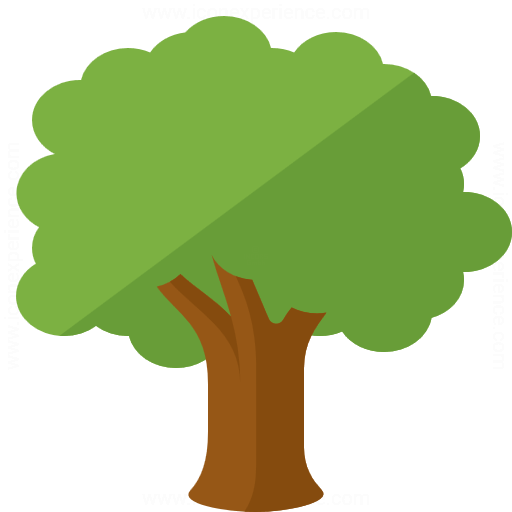
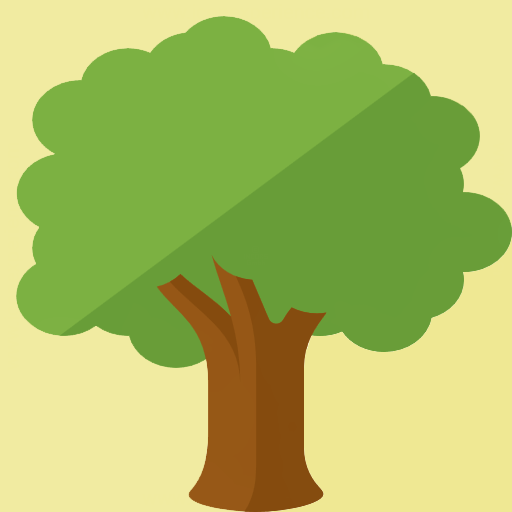
Added visual changes and menu

diff --git a/Focus.py b/Focus.py
@@ -1,0 +1,191 @@
+from PyQt5 import QtCore, QtGui, QtWidgets
+from New_tree import *
+import sys
+
+menu_file_style = """
+QMenuBar::item {
+    spacing: 3px;           
+    padding: 2px 10px;
+    background-color: rgb(180,213,78);
+    color: black;  
+    border-radius: 5px;
+}
+"""
+
+class MainWindow(QtWidgets.QMainWindow):
+
+    def __init__(self):
+        super(MainWindow, self).__init__()
+        self.setupUi()
+
+    def setupUi(self):
+
+        self.setup_window()
+
+        self.font = self._set_font()
+
+        self.create_main_menu()
+        self.create_menubar()
+
+        self.tree = Tree(self) #TODO: File menubar doesnt work, fix it
+
+        self.connect_widgets()
+
+    def connect_widgets(self):
+
+        QtCore.QMetaObject.connectSlotsByName(self)
+
+    def exit_app(self):
+        self.close()
+
+    def forest(self):
+        print('Forest')
+
+    def new_tree(self):
+        print('New tree')
+        self.toogle_main_menu()
+
+        self.label = QtWidgets.QLabel(self.central_widget)
+        self.label.show()
+        self.label.setGeometry(QtCore.QRect(0, 0, self.size().width(), self.size().height()))
+        self.label.setAlignment(QtCore.Qt.AlignCenter)
+        self.label.setPixmap(QtGui.QPixmap("imgs/stage_6.PNG"))
+        self.label.setObjectName("label")
+        # self.tree.initialize()
+
+        self.connect_widgets()
+
+    def _set_font(self):
+        font = QtGui.QFont()
+        font.setFamily("Arial")
+        font.setPointSize(14)
+        font.setBold(True)
+        font.setWeight(75)
+        return font
+
+    def _set_button_style(self):
+
+        self.button_new_tree.setStyleSheet(
+            "color:rgb(26, 26, 26);" 
+            "background-color:rgb(180,213,78);" 
+            "border-style: inset;" 
+            "border-width: 2px;" 
+            "border-radius: 20px;" 
+            "border-color: black;")
+
+        self.button_forest.setStyleSheet(
+            "color:rgb(26, 26, 26);" 
+            "background-color:rgb(180,213,78);" 
+            "border-style: inset;" 
+            "border-width: 2px;" 
+            "border-radius: 20px;" 
+            "border-color: black;")
+
+        self.button_exit.setStyleSheet(
+            "color:rgb(26, 26, 26);" 
+            "background-color:rgb(180,213,78);" 
+            "border-style: inset;" 
+            "border-width: 2px;" 
+            "border-radius: 20px;" 
+            "border-color: black;")
+
+    def create_main_menu(self):
+        self.button_new_tree = QtWidgets.QPushButton(self.central_widget)
+        self.button_new_tree.setText("New focus")
+        self.button_new_tree.setGeometry(QtCore.QRect(349, 120, 201, 61))
+        self.button_new_tree.setFont(self.font)
+        self.button_new_tree.setObjectName("button_new_tree")
+        self.button_new_tree.clicked.connect(self.new_tree)
+
+        self.button_forest = QtWidgets.QPushButton(self.central_widget)
+        self.button_forest.setText("Forest")
+        self.button_forest.setGeometry(QtCore.QRect(349, 260, 201, 61))
+        self.button_forest.setFont(self.font)
+        self.button_forest.setObjectName("button_forest")
+        self.button_forest.clicked.connect(self.forest)
+
+        self.button_exit = QtWidgets.QPushButton(self.central_widget)
+        self.button_exit.setText("Exit")
+        self.button_exit.setGeometry(QtCore.QRect(349, 400, 201, 61))
+        self.button_exit.setFont(self.font)
+        self.button_exit.setObjectName("button_exit")
+        self.button_exit.clicked.connect(self.exit_app)
+
+        self._set_button_style()
+
+    def create_menubar(self):
+        self.setCentralWidget(self.central_widget)
+
+        self.menubar = QtWidgets.QMenuBar(self)
+        self.menubar.setObjectName("menubar")
+
+        self.menuFile = QtWidgets.QMenu(self.menubar)
+        self.menuFile.setTitle("File")
+        self.menuFile.setObjectName("menuFile")
+        self.menuFile.setStyleSheet("background-color:rgb(192,228,82);")
+
+        self.setMenuBar(self.menubar)
+
+        self.statusbar = QtWidgets.QStatusBar(self)
+        self.statusbar.setObjectName("statusbar")
+
+        self.setStatusBar(self.statusbar)
+
+        self.action_new_tree = QtWidgets.QAction(self)
+        self.action_new_tree.setText("New focus")
+        self.action_new_tree.setShortcut("Ctrl+N")
+        self.action_new_tree.setObjectName("action_new_tree")
+        self.action_new_tree.triggered.connect(self.new_tree)
+
+        self.action_forest = QtWidgets.QAction(self)
+        self.action_forest.setText("Forest")
+        self.action_forest.setShortcut("Ctrl+F")
+        self.action_forest.setObjectName("action_forest")
+        self.action_forest.triggered.connect(self.forest)
+
+        self.action_exit = QtWidgets.QAction(self)
+        self.action_exit.setText("Exit")
+        self.action_exit.setShortcut("Esc")
+        self.action_exit.setObjectName("action_exit")
+        self.action_exit.triggered.connect(self.exit_app)
+
+        self.menuFile.addAction(self.action_new_tree)
+        self.menuFile.addAction(self.action_forest)
+        self.menuFile.addSeparator()
+        self.menuFile.addAction(self.action_exit)
+
+        self.menubar.addAction(self.menuFile.menuAction())
+
+    def setup_window(self, width=900, height=650):
+
+        self.setObjectName("MainWindow")
+        self.setWindowTitle("Focus")
+        self.resize(width, height)
+
+        icon = QtGui.QIcon()
+        icon.addFile('imgs/tree_app_icon.png', QtCore.QSize(512, 512))
+        self.setWindowIcon(icon)
+
+        self.setStyleSheet("background-color:rgb(239,234,150)")
+
+        self.central_widget = QtWidgets.QWidget(self)
+        self.central_widget.setObjectName("central_widget")
+
+    def toogle_main_menu(self):
+        if self.button_new_tree.isVisible():
+            self.button_new_tree.close()
+            self.button_forest.close()
+            self.button_exit.close()
+        else:
+            self.button_new_tree.show()
+            self.button_forest.show()
+            self.button_exit.show()
+
+if __name__ == "__main__":
+    app = QtWidgets.QApplication(sys.argv)
+    app.setStyleSheet(menu_file_style)
+
+    ui = MainWindow()
+
+    ui.show()
+    sys.exit(app.exec_())

diff --git a/New_tree.py b/New_tree.py
@@ -1,0 +1,13 @@
+from PyQt5 import QtCore, QtGui, QtWidgets
+
+class Tree(QtWidgets.QLabel):
+    
+    def __init__(self, central_widget):
+        super().__init__(central_widget)
+        self.central_widget = central_widget 
+
+    def initialize(self):
+        self.setGeometry(QtCore.QRect(0, 0, self.central_widget.size().width(), self.central_widget.size().height()))
+        self.setAlignment(QtCore.Qt.AlignCenter)
+        self.setPixmap(QtGui.QPixmap("imgs/stage_0.PNG"))
+        self.setObjectName("tree")
